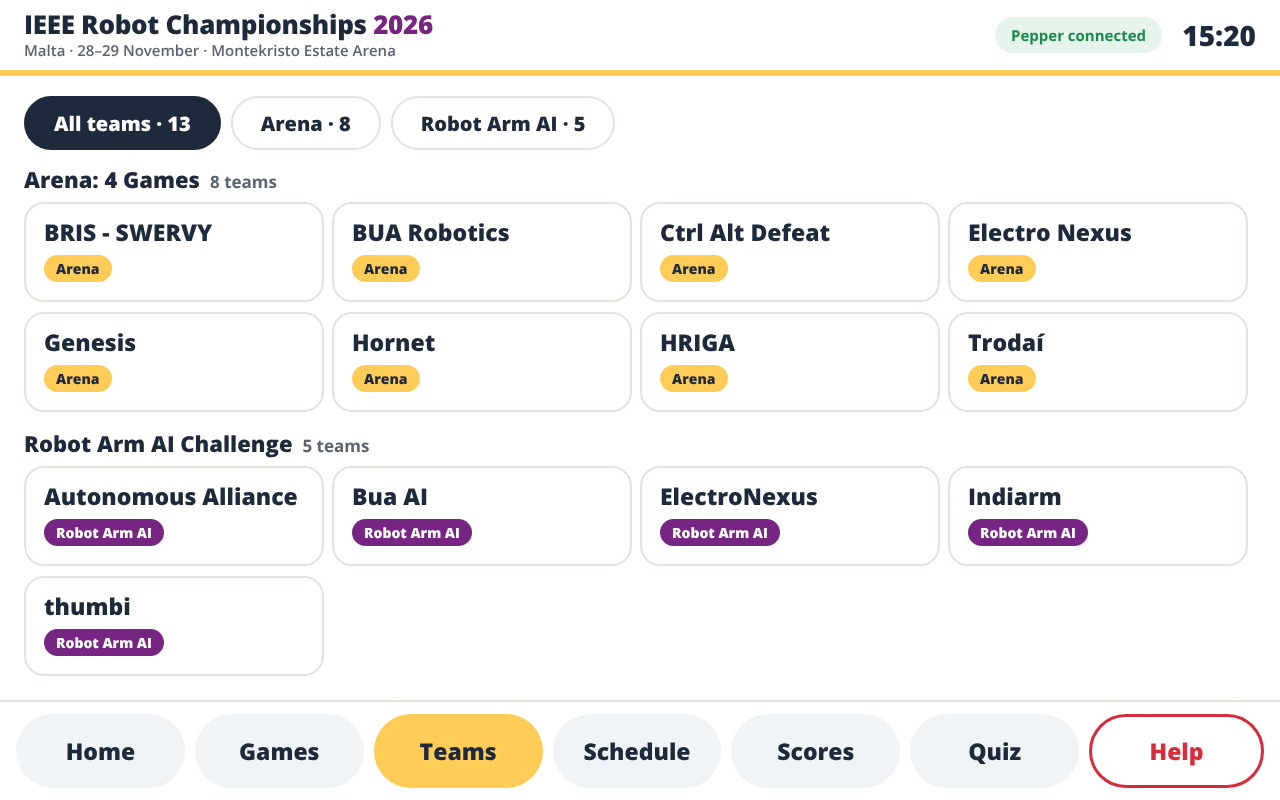
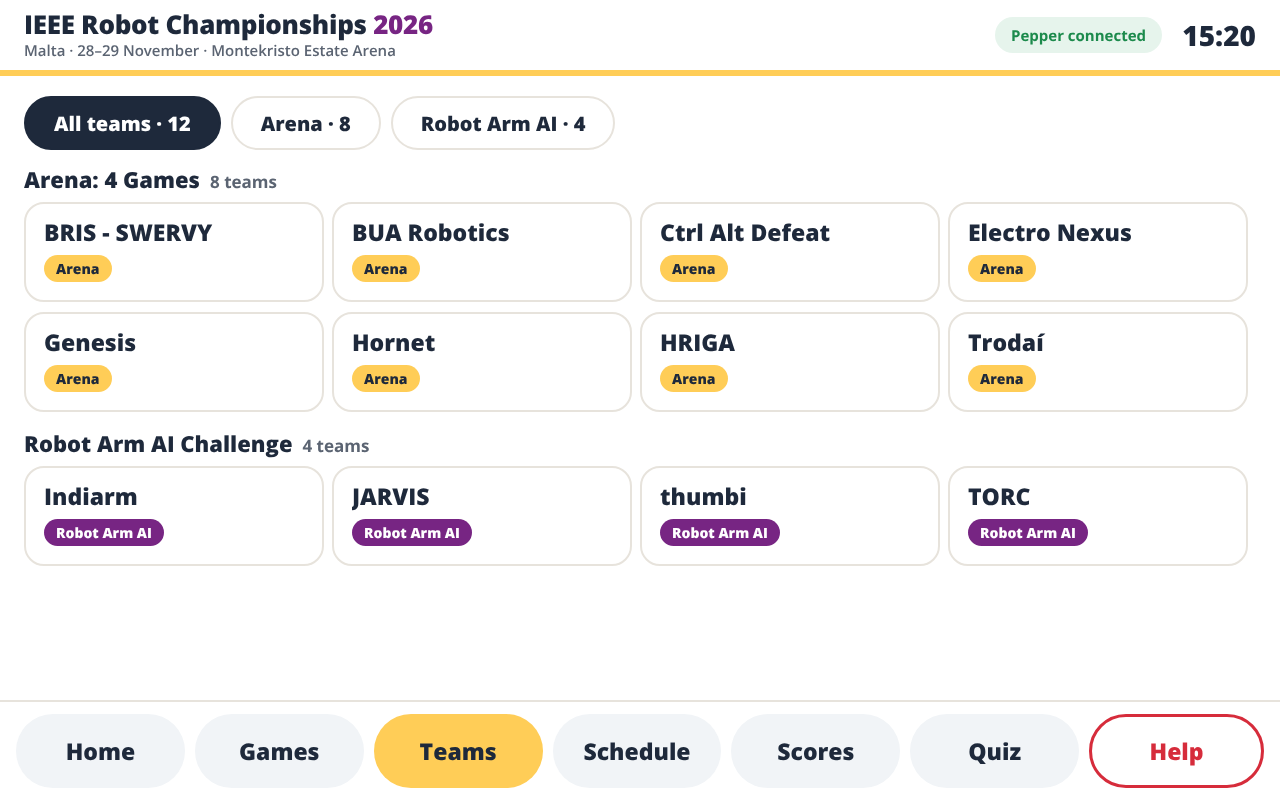
Robotic championships: Robot Arm AI Challenge now has 4 teams
- teams.csv: thumbi, JARVIS, TORC, Indiarm (Autonomous Alliance, Bua AI and ElectroNexus removed)
- Programme: the three removed teams taken out of the Robot Arm rounds; no new pairings invented
- Docs, screenshots and the tablet tour GIF show the new list (12 teams)

Claude-Session: https://claude.ai/code/session_019zoKA7vDry9RbUjnAsezBo

diff --git a/robotic-championships/tests/ui.test.js b/robotic-championships/tests/ui.test.js
@@ -62,25 +62,25 @@ function state(extra) {
     return !/maze|wrap.and.pack/i.test(all); }), 'no maze and no Wrap and Pack anywhere in the content or the programme');
   ok((await pg.evaluate(() => HostState.schedule.length)) === 55, 'the official running order (55 items) not read in preview');
   ok((await pg.evaluate(() => HostState.schedule.filter(x => x.title === 'Time of Fall').length)) === 16 && (await pg.evaluate(() => HostState.schedule[6].a === 'Troda\u00ed' && HostState.schedule[6].b === 'BRIS - SWERVY')), 'Time of Fall matches from the running order');
-  ok((await pg.evaluate(() => HostState.teams.filter(t => t.cat === 'arena').length)) === 8 && (await pg.evaluate(() => HostState.teams.filter(t => t.cat === 'arm').length)) === 5, 'official teams from teams.csv (8 + 5)');
+  ok((await pg.evaluate(() => HostState.teams.filter(t => t.cat === 'arena').length)) === 8 && (await pg.evaluate(() => HostState.teams.filter(t => t.cat === 'arm').length)) === 4, 'official teams from teams.csv (8 + 4)');
   ok((await pg.evaluate(() => HostState.teams.some(t => t.name === 'Troda\u00ed'))), 'accented team name read from teams.csv');
   ok((await txt('#footRules')).indexOf('v0.7') >= 0, 'rulebook version not shown');
   ok(await vis('#countBox'), 'countdown not shown before the event');
   ok((await pg.$$eval('#nav button', e => e.length === 7 && e.every(b => b.offsetHeight >= 70 && b.offsetWidth >= 150 && b.getBoundingClientRect().bottom <= 800))), 'dock: seven buttons, each at least 150 x 70 and on screen');
   ok((await pg.$$eval('.stat', e => e.length)) === 3, 'stats');
   await pg.click('#nav [data-go="teams"]'); await pg.waitForTimeout(100);
-  ok((await pg.$$eval('#teamSeg button', e => e.map(x => x.textContent))).join('|') === 'All teams \u00b7 13|Arena \u00b7 8|Robot Arm AI \u00b7 5', 'team counts on the filter buttons');
-  ok((await pg.$$eval('.tgh', e => e.map(x => x.textContent))).join('|') === 'Arena: 4 Games8 teams|Robot Arm AI Challenge5 teams', 'team groups: ' + (await pg.$$eval('.tgh', e => e.map(x => x.textContent))).join('|'));
-  ok((await pg.$$eval('#teamGrid .team', e => e.length)) === 13, 'all 13 team cards');
+  ok((await pg.$$eval('#teamSeg button', e => e.map(x => x.textContent))).join('|') === 'All teams \u00b7 12|Arena \u00b7 8|Robot Arm AI \u00b7 4', 'team counts on the filter buttons');
+  ok((await pg.$$eval('.tgh', e => e.map(x => x.textContent))).join('|') === 'Arena: 4 Games8 teams|Robot Arm AI Challenge4 teams', 'team groups: ' + (await pg.$$eval('.tgh', e => e.map(x => x.textContent))).join('|'));
+  ok((await pg.$$eval('#teamGrid .team', e => e.length)) === 12, 'all 12 team cards');
   ok((await pg.evaluate(() => { const g = document.getElementById('teamGrid'); return g.scrollHeight <= g.clientHeight + 1; })), 'all 13 teams visible without scrolling');
   ok((await pg.$$eval('#teamGrid .tn', e => e.every(x => x.scrollWidth <= x.clientWidth + 1))), 'a team name is cut off');
   ok((await pg.$$eval('#teamGrid .team', e => e.every(x => { const r = x.getBoundingClientRect(); return r.right <= 1280 && r.bottom <= 700; }))), 'a team card is off screen');
-  ok((await pg.$$eval('.tcards', e => e.map(c => { const tops = {}; Array.prototype.forEach.call(c.children, k => { tops[Math.round(k.getBoundingClientRect().top)] = (tops[Math.round(k.getBoundingClientRect().top)] || 0) + 1; }); return Object.keys(tops).map(t => tops[t]).join(','); }).join('|'))) === '4,4|4,1', 'cards per row (expected 4 per row)');
+  ok((await pg.$$eval('.tcards', e => e.map(c => { const tops = {}; Array.prototype.forEach.call(c.children, k => { tops[Math.round(k.getBoundingClientRect().top)] = (tops[Math.round(k.getBoundingClientRect().top)] || 0) + 1; }); return Object.keys(tops).map(t => tops[t]).join(','); }).join('|'))) === '4,4|4', 'cards per row (expected 4 per row)');
   await pg.evaluate(() => HostUI.go('home')); await pg.waitForTimeout(100);
-  ok((await txt('#tileTeams')) === '8 Arena \u00b7 5 Robot Arm', 'teams tile in preview: ' + await txt('#tileTeams'));
-  ok((await pg.$$eval('.stat b', e => e.map(x => x.textContent))).join('|') === '40+|13|10+', 'home stats use the real team count');
+  ok((await txt('#tileTeams')) === '8 Arena \u00b7 4 Robot Arm', 'teams tile in preview: ' + await txt('#tileTeams'));
+  ok((await pg.$$eval('.stat b', e => e.map(x => x.textContent))).join('|') === '40+|12|10+', 'home stats use the real team count');
   await pg.evaluate(() => HostUI.go('scores')); await pg.waitForTimeout(100);
-  ok((await pg.$$eval('#boardArena li', e => e.length)) === 8 && (await pg.$$eval('#boardArm li', e => e.length)) === 5, 'every team listed on its board before any score');
+  ok((await pg.$$eval('#boardArena li', e => e.length)) === 8 && (await pg.$$eval('#boardArm li', e => e.length)) === 4, 'every team listed on its board before any score');
   ok((await pg.$$eval('.board', e => e.every(b => b.scrollHeight <= b.clientHeight + 1 && b.getBoundingClientRect().right <= 1280))), 'a scoreboard needs scrolling or is off screen');
   ok((await pg.$$eval('#boardArena .pt', e => e.every(x => x.textContent === 'No score yet'))), 'no-score label');
   ok((await pg.$eval('#boardArena li .rk', e => getComputedStyle(e).backgroundColor)) !== 'rgb(255, 205, 87)', 'a team without a score shown as first place');

diff --git a/robotic-championships/tests/fit_audit.js b/robotic-championships/tests/fit_audit.js
@@ -41,13 +41,14 @@ const srv = http.createServer((q, r) => { const p = path.join(ROOT, decodeURICom
     report.push({ name, publicView, clipped: r.clipped, scroll: r.scroll });
   }
   await pg.evaluate(() => HostUI.go('home')); await audit('home', true);
-  // Pepper's intro: every scene, with the real 13 teams and the longest "next" line
+  // Pepper's intro: every scene, with the real teams from teams.csv and the longest "next" line
   const scenes = await pg.evaluate(() => HostState.content.intro);
+  const nAll = String(teams.length), nAr = String(teams.filter(t => t.cat === 'arena').length), nArm = String(teams.length - teams.filter(t => t.cat === 'arena').length);
   for (let i = 0; i < scenes.length; i++) {
     const sc = scenes[i];
-    const sub = sc.kind === 'next' ? 'Next: Tower Construction Duel (final), Sunday 16:45, then Hanging Hazard (final)' : (sc.sub || '').replace(/\{n\}/g, '13').replace(/\{na\}/g, '8').replace(/\{nm\}/g, '5');
+    const sub = sc.kind === 'next' ? 'Next: Tower Construction Duel (final), Sunday 16:45, then Hanging Hazard (final)' : (sc.sub || '').replace(/\{n\}/g, nAll).replace(/\{na\}/g, nAr).replace(/\{nm\}/g, nArm);
     await pg.evaluate(s => HostUI.update(s), { seq: 10 + i, v: '1.1.0', now: T, voice: true, speaking: true, calls: true, teams, schedule: sched, scores, alerts: [],
-      intro: { i, n: scenes.length, id: sc.id, kind: sc.kind, clip: sc.clip || '', head: sc.head.replace(/\{n\}/g, '13'), sub } });
+      intro: { i, n: scenes.length, id: sc.id, kind: sc.kind, clip: sc.clip || '', head: sc.head.replace(/\{n\}/g, nAll), sub } });
     await audit('intro-' + (i + 1) + '-' + sc.id, true);
   }
   await pg.evaluate(s => HostUI.update(s), { seq: 40, v: '1.1.0', now: T, voice: true, speaking: false, calls: true, teams, schedule: sched, scores, alerts: [], intro: null });

diff --git a/robotic-championships/tests/intro_shots.js b/robotic-championships/tests/intro_shots.js
@@ -17,7 +17,8 @@ const srv = http.createServer((q, r) => { const p = path.join(ROOT, decodeURICom
   const content = JSON.parse(fs.readFileSync(path.join(ROOT, 'data/content.json'), 'utf8'));
   for (let i = 0; i < content.intro.length; i++) {
     const sc = content.intro[i];
-    const fill = t => String(t || '').replace('{n}', '13').replace('{na}', '8').replace('{nm}', '5');
+    const na = teams.filter(t => t.cat === 'arena').length, nm = teams.length - na;   // from teams.csv, like Pepper
+    const fill = t => String(t || '').replace('{n}', String(teams.length)).replace('{na}', String(na)).replace('{nm}', String(nm));
     const intro = { i, n: content.intro.length, id: sc.id, kind: sc.kind, clip: sc.clip || '', head: fill(sc.head), sub: sc.kind === 'next' ? 'Coming up next, at 15:20: Time of Fall in the Arena.' : fill(sc.sub) };
     await pg.evaluate(s => HostUI.update(s), Object.assign({ seq: 2 + i, intro }, base)); await pg.waitForTimeout(500);
     await pg.screenshot({ path: `${OUT}/${String(i + 1).padStart(2, '0')}-${sc.id}.png` });

diff --git a/robotic-championships/tests/test_controller.py b/robotic-championships/tests/test_controller.py
@@ -714,21 +714,21 @@ def run():
     boxr, nsr = start(wr, store=os.path.join(tmp, "sr"))
     arena = [t["name"] for t in boxr.teams if t["cat"] == "arena"]
     arms = [t["name"] for t in boxr.teams if t["cat"] == "arm"]
-    check(len(arena) == 8 and len(arms) == 5, "official list: %d arena, %d arm" % (len(arena), len(arms)))
-    check(u"Troda\u00ed" in arena and "BRIS - SWERVY" in arena and "thumbi" in arms, "official names: %r %r" % (arena, arms))
+    check(len(arena) == 8 and len(arms) == 4, "official list: %d arena, %d arm" % (len(arena), len(arms)))
+    check(u"Troda\u00ed" in arena and "BRIS - SWERVY" in arena and arms == ["thumbi", "JARVIS", "TORC", "Indiarm"], "official names: %r %r" % (arena, arms))
     st = last_state(wr)
-    check(len(st["teams"]) == 13 and any(t["name"] == u"Troda\u00ed" for t in st["teams"]), "accented name lost on the way to the tablet")
+    check(len(st["teams"]) == 12 and any(t["name"] == u"Troda\u00ed" for t in st["teams"]), "accented name lost on the way to the tablet")
     words = wr.concepts[-1][2]
-    check("trodai" in words and "bris swervy" in words and "ctrl alt defeat" in words and "electro nexus" in words and "electronexus" in words,
+    check("trodai" in words and "bris swervy" in words and "ctrl alt defeat" in words and "electro nexus" in words and "jarvis" in words and "torc" in words and "electronexus" not in words,
           "dialog words: %r" % words)
     check(all(isinstance(x, str) and all(ord(c) < 128 for c in x) for x in words), "dialog words must be plain letters")
     dlg(wr, boxr, "teams")
-    check(wr.said[-1] == "13 teams are taking part: 8 teams in the Arena and 5 teams in the Robot Arm AI Challenge.", "teams line: %r" % wr.said[-1])
+    check(wr.said[-1] == "12 teams are taking part: 8 teams in the Arena and 4 teams in the Robot Arm AI Challenge.", "teams line: %r" % wr.said[-1])
     dlg(wr, boxr, "team", hostTeam="trodai")
     check(wr.said[-1].startswith(u"Troda\u00ed competes in the Arena".encode("utf-8") if str is bytes else u"Troda\u00ed competes in the Arena"),
           "accented team: %r" % wr.said[-1])
     dlg(wr, boxr, "team", hostTeam="electro nexus")
-    check(wr.said[-1] == "There are 2 teams with that name: Electro Nexus in the Arena and ElectroNexus in the Robot Arm AI Challenge.", "look-alike names: %r" % wr.said[-1])
+    check(wr.said[-1].startswith("Electro Nexus competes in the Arena."), "one team with that name now: %r" % wr.said[-1])
     dlg(wr, boxr, "team", hostTeam="bris swervy")
     check(wr.said[-1] == "BRIS SWERVY competes in the Arena. Their next match: Time of Fall, at 15:20.", "punctuation in a name: %r" % wr.said[-1])
     dlg(wr, boxr, "team", hostTeam="bua")
@@ -741,6 +741,9 @@ def run():
     check(len([t for t in boxr.teams if t["name"] == "Indiarm"]) == 2, "the same name in the other competition was refused")
     tab(wr, boxr, {"cmd": "team-save", "team": {"name": "indiarm", "cat": "arm"}, "token": tokr})
     check(len([t for t in boxr.teams if t["name"].lower() == "indiarm"]) == 2 and "already on the list" in wr.js[-1], "duplicate in the same competition accepted")
+    tab(wr, boxr, {"cmd": "team-save", "team": {"name": "ElectroNexus", "cat": "arm"}, "token": tokr})     # a look-alike of an Arena team
+    dlg(wr, boxr, "team", hostTeam="electro nexus")
+    check(wr.said[-1] == "There are 2 teams with that name: Electro Nexus in the Arena and ElectroNexus in the Robot Arm AI Challenge.", "look-alike names: %r" % wr.said[-1])
     fx = [t for t in boxr.teams if t["name"] == u"Troda\u00ed"][0]
     tab(wr, boxr, {"cmd": "score-save", "teamId": fx["id"], "points": 42, "token": tokr})
     dlg(wr, boxr, "scores")

diff --git a/robotic-championships/tests/test_package.py b/robotic-championships/tests/test_package.py
@@ -55,7 +55,7 @@ for name in params:
 # manifest and project file
 man = ET.parse(os.path.join(PKG, "manifest.xml")).getroot()
 teams = [l.split(",") for l in io.open(os.path.join(PKG, "html", "data", "teams.csv"), encoding="utf-8").read().splitlines() if l and not l.startswith("#")][1:]
-check(len([r for r in teams if r[2] == "arena"]) == 8 and len([r for r in teams if r[2] == "arm"]) == 5, "teams.csv should hold the 8 Arena and 5 Robot Arm teams from the organisers' sheet")
+check(len([r for r in teams if r[2] == "arena"]) == 8 and len([r for r in teams if r[2] == "arm"]) == 4, "teams.csv should hold the 8 Arena and 4 Robot Arm teams (organisers' update, 23 Nov 2026)")
 check(man.find("contents/dialogContent") is None, "manifest must not declare the topic (the system would load it too: topic already loaded)")
 check(man.get("version") == version and man.get("uuid") == "ieee-championship-host", "manifest version/uuid")
 pml = ET.parse(os.path.join(PKG, "ChampionshipHost.pml")).getroot()
@@ -125,6 +125,8 @@ for p in texts:
     if rel.replace("\\", "/") == "ChampionshipHost/html/data/teams.csv":
         rows = [l for l in t.splitlines() if l and not l.startswith("#")]
         check(all(l.count(",") == 3 for l in rows), "teams.csv: every row needs 4 columns")
+    elif rel.replace("\\", "/") == "ChampionshipHost/html/data/schedule.csv":
+        pass        # the organisers' official running order names the teams in each match
     elif all(r[0] in t for r in teams):
         pass        # a full, equal list of every team (the docs) is neutral
     else:

diff --git a/robotic-championships/README.md b/robotic-championships/README.md
@@ -9,7 +9,7 @@
   <img src="media/robot-arm-challenge.gif" alt="Robot Arm AI Challenge: colour, shape and dynamic sort, pouring, folding, Tower Duel" width="355">
 </p>
 
-<p align="center"><sub>Tablet tour, redesigned as a kiosk with a dock of big buttons: Home, then Pepper's intro (welcome, the two competitions, the games, all 13 official teams, what's next), then the games, teams, programme, scores and the robot quiz. Then the four Arena games and the six Robot Arm AI Challenge rounds. The game clips are simulations, used to explain the rules.</sub></p>
+<p align="center"><sub>Tablet tour, redesigned as a kiosk with a dock of big buttons: Home, then Pepper's intro (welcome, the two competitions, the games, all 12 official teams, what's next), then the games, teams, programme, scores and the robot quiz. Then the four Arena games and the six Robot Arm AI Challenge rounds. The game clips are simulations, used to explain the rules.</sub></p>
 
 **Folders:**
 - `ChampionshipHost/`: the Choregraphe project. Open `ChampionshipHost.pml`.
@@ -21,7 +21,7 @@
 
 Pepper as the neutral, official host of the **IEEE Robot Championships 2026** (28 and 29 November, Montekristo Estate Arena, Malta), built for the IEEE Malta Section.
 
-Pepper opens with a **two-minute intro**: who it is, the two competitions, every game with its clip, all 13 teams by name, and what is coming next. After that the tablet does most of the work. Visitors can see the games, the teams, the programme and provisional scores, and play a **robot quiz of 100 questions**. They can also call a volunteer. Pepper calls the teams ten minutes before each block of matches.
+Pepper opens with a **two-minute intro**: who it is, the two competitions, every game with its clip, all 12 teams by name, and what is coming next. After that the tablet does most of the work. Visitors can see the games, the teams, the programme and provisional scores, and play a **robot quiz of 100 questions**. They can also call a volunteer. Pepper calls the teams ten minutes before each block of matches.
 
 Pepper answers every tap with one short line (the same screen's line is not repeated within 15 seconds), gives its intro once at every start, and stays quiet the rest of the time. Speech recognition in a loud arena is not reliable, so everything works by touch, and voice is a bonus.
 
@@ -49,7 +49,7 @@ Every line Pepper can speak (130 in the tests: the intro, each game, each screen
 
 Pepper's English voice reads text literally, so a pronunciation step runs just before it speaks (the screen keeps the normal spelling): IEEE becomes "I triple E", Ctrl becomes "Control", CHAOS becomes "Chaos", and symbols such as the middle dot, " - ", "&" and "+150" are not read aloud. A test fails if any spoken line still contains them.
 
-**Listen before the event.** Team names are the one thing only a person can check: HRIGA, BUA Robotics, BRIS SWERVY, Trodai (with its accent), thumbi and Indiarm may not sound the way the teams say them. In staff mode, Announce tab, touch **Say every team name**. If a name sounds wrong, set its **Say it as** in the Teams tab (for example "Hriga" or "Tro dee").
+**Listen before the event.** Team names are the one thing only a person can check: HRIGA, BUA Robotics, BRIS SWERVY, Trodai (with its accent), thumbi, JARVIS, TORC and Indiarm may not sound the way the teams say them. In staff mode, Announce tab, touch **Say every team name**. If a name sounds wrong, set its **Say it as** in the Teams tab (for example "Hriga" or "Tro dee").
 
 ## Pepper's clock
 
@@ -62,7 +62,7 @@ Twelve scenes, about two minutes. The tablet goes full screen while Pepper speak
 1. Hello, I am Pepper
 2. Two competitions: 8 teams in the Arena, 5 in the Robot Arm AI Challenge
 3. to 9. Every game, each with its clip: Time of Fall, Climate CHAOS, Weight in Line, Hanging Hazard, Pick and Place, the two-arm rounds, Tower Construction Duel
-10. Meet the teams: all 13 names, Arena and Robot Arm side by side
+10. Meet the teams: all 12 names, Arena and Robot Arm side by side
 11. What's next, from the real programme
 12. Touch my screen: your turn
 
@@ -125,10 +125,10 @@ The tablet keeps working either way.
 
 Both files are in `html/data/` and open in Excel or any text editor. Lines starting with `#` are notes.
 
-`teams.csv` already holds the official teams from the organisers' sheet (Teams & Settings): **8 Arena teams** (Trodaí, HRIGA, Hornet, BUA Robotics, Genesis, Ctrl Alt Defeat, Electro Nexus, BRIS - SWERVY) and **5 Robot Arm teams** (thumbi, Autonomous Alliance, Bua AI, Indiarm, ElectroNexus). The sheet has no countries, so that column is empty. The tablet shows the two competitions separately, each with its own count, and Pepper says "13 teams are taking part: 8 teams in the Arena and 5 teams in the Robot Arm AI Challenge."
+`teams.csv` already holds the official teams from the organisers' sheet (Teams & Settings): **8 Arena teams** (Trodaí, HRIGA, Hornet, BUA Robotics, Genesis, Ctrl Alt Defeat, Electro Nexus, BRIS - SWERVY) and **4 Robot Arm teams** (thumbi, JARVIS, TORC, Indiarm; updated 23 Nov 2026). The sheet has no countries, so that column is empty. The tablet shows the two competitions separately, each with its own count, and Pepper says "12 teams are taking part: 8 teams in the Arena and 4 teams in the Robot Arm AI Challenge."
 
 Two details are handled on purpose:
-- **Similar names.** "Electro Nexus" (Arena) and "ElectroNexus" (Robot Arm) sound the same. If someone asks for that name, Pepper names both and says which competition each is in.
+- **Similar names.** If two teams' names sound the same (for example "Electro Nexus" and "ElectroNexus"), Pepper names both and says which competition each is in.
 - **Accents.** Pepper recognises "Trodaí" with or without the accent. If it pronounces a name wrongly, add a "say it as" spelling in staff mode or in the `say_as` column.
 
 - **`teams.csv`** has the columns `name, country, category (arena or arm), say_as`.

diff --git a/robotic-championships/docs/README.md b/robotic-championships/docs/README.md
@@ -2,7 +2,7 @@
 
 Pepper as the neutral, official host of the **IEEE Robot Championships 2026** (28 and 29 November, Montekristo Estate Arena, Malta), built for the IEEE Malta Section.
 
-Pepper opens with a **two-minute intro**: who it is, the two competitions, every game with its clip, all 13 teams by name, and what is coming next. After that the tablet does most of the work. Visitors can see the games, the teams, the programme and provisional scores, and play a **robot quiz of 100 questions**. They can also call a volunteer. Pepper calls the teams ten minutes before each block of matches.
+Pepper opens with a **two-minute intro**: who it is, the two competitions, every game with its clip, all 12 teams by name, and what is coming next. After that the tablet does most of the work. Visitors can see the games, the teams, the programme and provisional scores, and play a **robot quiz of 100 questions**. They can also call a volunteer. Pepper calls the teams ten minutes before each block of matches.
 
 Pepper answers every tap with one short line (the same screen's line is not repeated within 15 seconds), gives its intro once at every start, and stays quiet the rest of the time. Speech recognition in a loud arena is not reliable, so everything works by touch, and voice is a bonus.
 
@@ -30,7 +30,7 @@ Every line Pepper can speak (130 in the tests: the intro, each game, each screen
 
 Pepper's English voice reads text literally, so a pronunciation step runs just before it speaks (the screen keeps the normal spelling): IEEE becomes "I triple E", Ctrl becomes "Control", CHAOS becomes "Chaos", and symbols such as the middle dot, " - ", "&" and "+150" are not read aloud. A test fails if any spoken line still contains them.
 
-**Listen before the event.** Team names are the one thing only a person can check: HRIGA, BUA Robotics, BRIS SWERVY, Trodai (with its accent), thumbi and Indiarm may not sound the way the teams say them. In staff mode, Announce tab, touch **Say every team name**. If a name sounds wrong, set its **Say it as** in the Teams tab (for example "Hriga" or "Tro dee").
+**Listen before the event.** Team names are the one thing only a person can check: HRIGA, BUA Robotics, BRIS SWERVY, Trodai (with its accent), thumbi, JARVIS, TORC and Indiarm may not sound the way the teams say them. In staff mode, Announce tab, touch **Say every team name**. If a name sounds wrong, set its **Say it as** in the Teams tab (for example "Hriga" or "Tro dee").
 
 ## Pepper's clock
 
@@ -43,7 +43,7 @@ Twelve scenes, about two minutes. The tablet goes full screen while Pepper speak
 1. Hello, I am Pepper
 2. Two competitions: 8 teams in the Arena, 5 in the Robot Arm AI Challenge
 3. to 9. Every game, each with its clip: Time of Fall, Climate CHAOS, Weight in Line, Hanging Hazard, Pick and Place, the two-arm rounds, Tower Construction Duel
-10. Meet the teams: all 13 names, Arena and Robot Arm side by side
+10. Meet the teams: all 12 names, Arena and Robot Arm side by side
 11. What's next, from the real programme
 12. Touch my screen: your turn
 
@@ -106,10 +106,10 @@ The tablet keeps working either way.
 
 Both files are in `html/data/` and open in Excel or any text editor. Lines starting with `#` are notes.
 
-`teams.csv` already holds the official teams from the organisers' sheet (Teams & Settings): **8 Arena teams** (Trodaí, HRIGA, Hornet, BUA Robotics, Genesis, Ctrl Alt Defeat, Electro Nexus, BRIS - SWERVY) and **5 Robot Arm teams** (thumbi, Autonomous Alliance, Bua AI, Indiarm, ElectroNexus). The sheet has no countries, so that column is empty. The tablet shows the two competitions separately, each with its own count, and Pepper says "13 teams are taking part: 8 teams in the Arena and 5 teams in the Robot Arm AI Challenge."
+`teams.csv` already holds the official teams from the organisers' sheet (Teams & Settings): **8 Arena teams** (Trodaí, HRIGA, Hornet, BUA Robotics, Genesis, Ctrl Alt Defeat, Electro Nexus, BRIS - SWERVY) and **4 Robot Arm teams** (thumbi, JARVIS, TORC, Indiarm; updated 23 Nov 2026). The sheet has no countries, so that column is empty. The tablet shows the two competitions separately, each with its own count, and Pepper says "12 teams are taking part: 8 teams in the Arena and 4 teams in the Robot Arm AI Challenge."
 
 Two details are handled on purpose:
-- **Similar names.** "Electro Nexus" (Arena) and "ElectroNexus" (Robot Arm) sound the same. If someone asks for that name, Pepper names both and says which competition each is in.
+- **Similar names.** If two teams' names sound the same (for example "Electro Nexus" and "ElectroNexus"), Pepper names both and says which competition each is in.
 - **Accents.** Pepper recognises "Trodaí" with or without the accent. If it pronounces a name wrongly, add a "say it as" spelling in staff mode or in the `say_as` column.
 
 - **`teams.csv`** has the columns `name, country, category (arena or arm), say_as`.

diff --git a/README.md b/README.md
@@ -39,7 +39,7 @@ Pepper greets residents by name, checks in on medicine, leads exercise and breat
 
 <p align="center"><sub>A tour of the host tablet, then the four Arena games and the Robot Arm AI Challenge (simulations, used to explain the rules).</sub></p>
 
-Pepper opens with a two-minute intro: the two competitions, every game with its clip, all 13 teams by name and what is coming next. Then the tablet takes over: the games, teams, programme, provisional scores and a robot quiz of 100 questions, five at a time. Pepper calls the teams ten minutes before each block of matches. Every team is treated the same way. [Read more](robotic-championships)
+Pepper opens with a two-minute intro: the two competitions, every game with its clip, all 12 teams by name and what is coming next. Then the tablet takes over: the games, teams, programme, provisional scores and a robot quiz of 100 questions, five at a time. Pepper calls the teams ten minutes before each block of matches. Every team is treated the same way. [Read more](robotic-championships)
 
 ---
 
